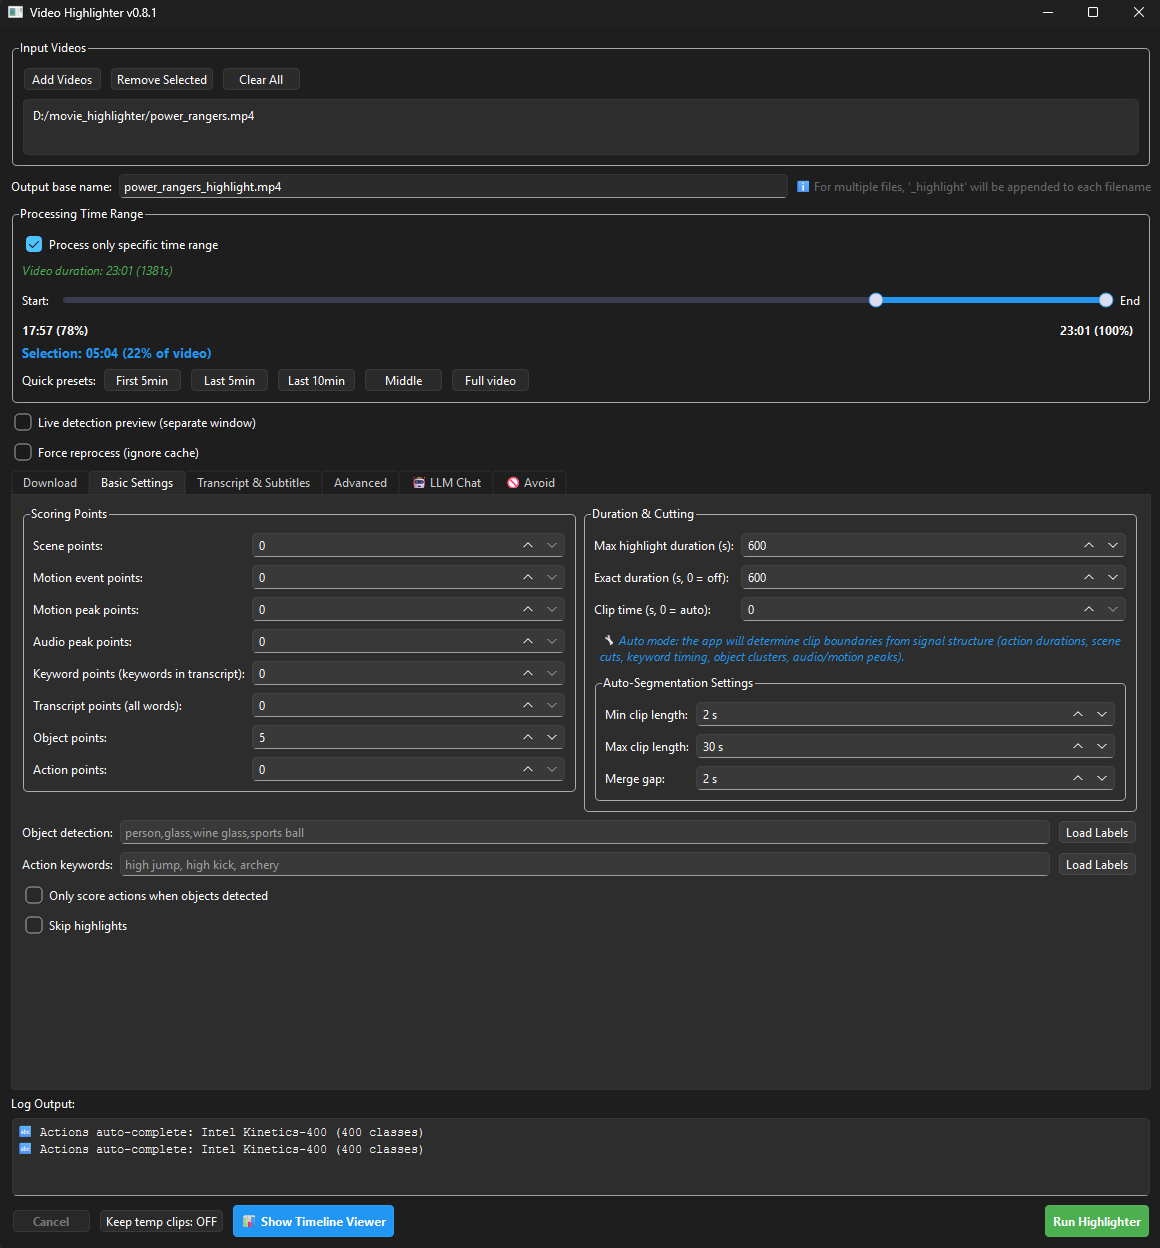
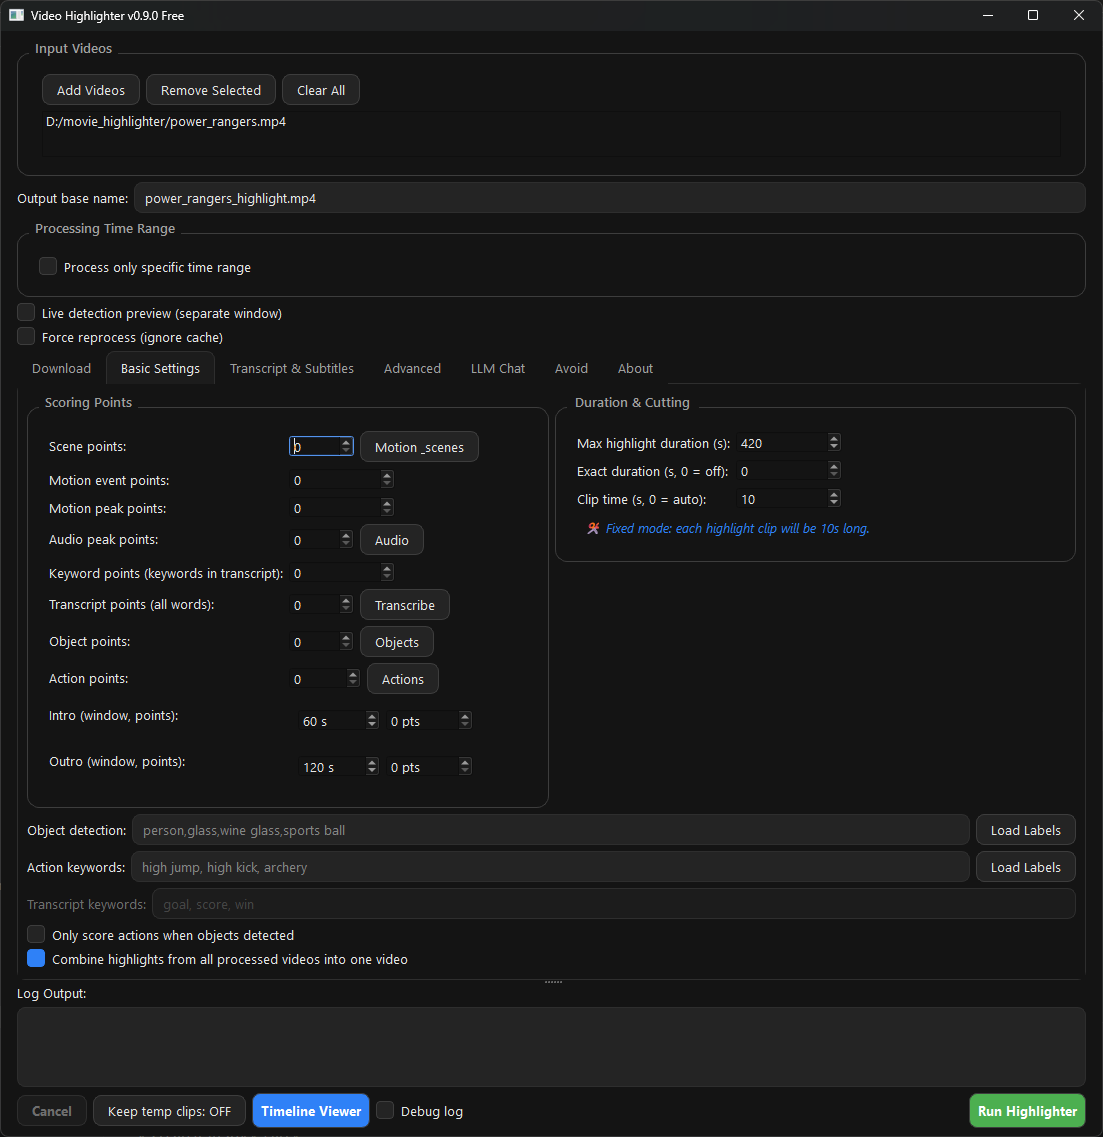
docs: refresh screenshots, add a Pro section, ignore local artifacts
Screenshots updated, and the two the README no longer shows are removed rather
than left orphaned in assets/ -- the image references and the files now match,
so nothing 404s on the project page.

Adds a Pro section listing only what Pro actually adds. Live face detection, VR
side-by-side playback and rendering, CLIP search, the composition engine and the
training scripts all ship here, so none of them appear as Pro features; the
genuine additions are the live object/action overlays, teach-a-category,
search-by-example, open-vocabulary detection and counter detection.

Fixes the Windows download link, which pointed at a placeholder called "link"
rather than the releases page.

Ignores cache/ (CLIP indices, detection entries, thumbnails, face db -- all
rebuilt on demand), training/runs/ (checkpoints and run logs), and
timeline_debug.log, which belongs with the debug.log entries already listed.

diff --git a/README.md b/README.md
@@ -26,13 +26,9 @@ and where each one falls down.
 ## Preview
 
 ![VideoHighlighter](assets/Highlighter.png)
-![Transcript Subtitles](assets/Transcript_Subtitles.png)
 
 ## Timeline Viewer
 ![Timeline Viewer](assets/TimelineViewer.png)
-
-## Visual Search
-![Visual Search](assets/VisualSearch.png)
 
 ## Action Recognition
 ![Action Recognition](assets/power_rangers_actions_annotated.gif)
@@ -40,10 +36,32 @@ and where each one falls down.
 ## Workflow Stages
 ![Workflow Stages](assets/workflow_stages.png)
 
+## Pro edition
+
+This edition already includes live face detection, VR side-by-side playback and
+rendering, offline analysis, CLIP search, the composition engine, and the
+training scripts.
+
+[VideoHighlighter Pro](https://aseiel.github.io/VideoHighlighter-site/) adds:
+
+- **Live object and action overlays** — real-time detection during playback,
+  including on side-by-side VR footage.
+- **Teach a category by pointing** — draw a box around anything, name it, and
+  it is scored live from then on. No dataset, no training run.
+- **Find more like this** — pick a region in one frame and search the whole
+  video for it.
+- **Open-vocabulary detection** — type a plain word and find it, with no
+  trained model for it.
+- **Counter / scoreboard detection** — if the footage has an on-screen counter,
+  every tick proves an event, so Pro can show which real moments the detector
+  missed.
+
+This edition remains free and AGPL-3.0 licensed.
+
 ## Installation
 
 ### Windows (recommended)
-Download the latest `.exe` from [Releases](link) — no Python or dependencies required.
+Download the latest `.exe` from [Releases](https://github.com/Aseiel/VideoHighlighter/releases) — no Python or dependencies required.
 
 ### Linux / Building from Source
 1. **Python & FFmpeg**
